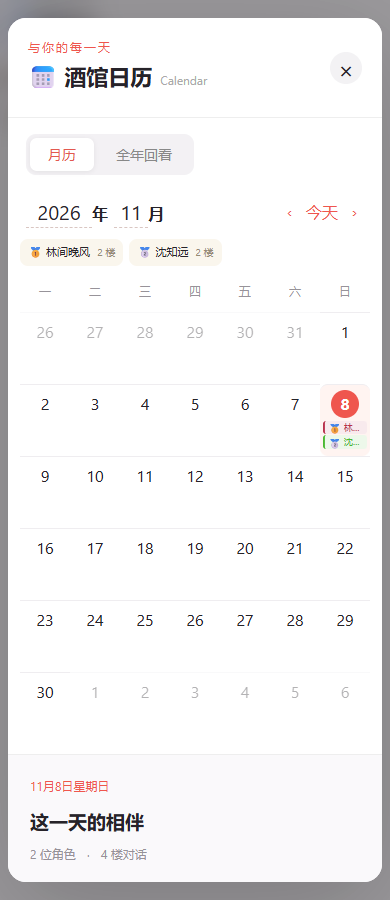
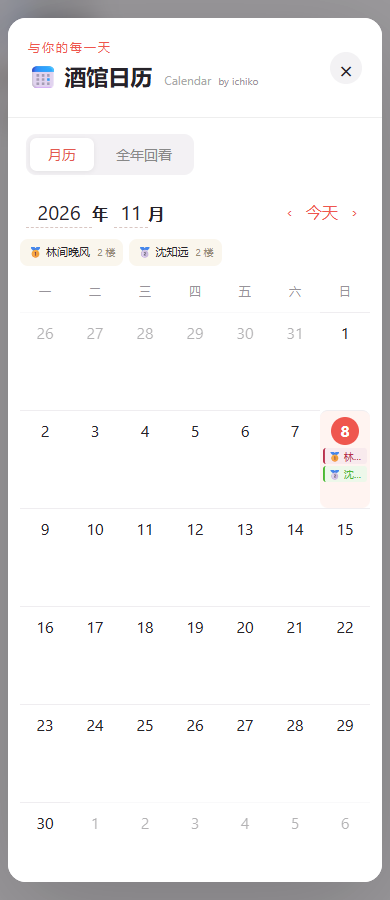
Add ichiko signature and reserve readable calendar overflow rows

diff --git a/index.js b/index.js
@@ -129,7 +129,7 @@
    const rows=Object.values(days[selected]||{}).sort((a,b)=>a.first-b.first), total=rows.reduce((s,r)=>s+r.user+r.char,0);
    const date=new Date(selected+'T12:00:00');
    const time=t=>new Date(t).toLocaleTimeString('zh-CN',{hour:'2-digit',minute:'2-digit'});
-   root.innerHTML=`<section class="tc-shell" role="dialog" aria-modal="true" aria-label="酒馆日历"><header><div><span class="tc-eyebrow">与你的每一天</span><h1>📅 酒馆日历<span>Calendar</span></h1></div><button data-action="close" class="tc-close" aria-label="关闭日历">×</button></header><div class="tc-tabs"><button data-action="month-view" aria-pressed="${view==='month'}">月历</button><button data-action="year-view" aria-pressed="${view==='year'}">全年回看</button></div><div class="tc-body"><main><nav><h2>${title}</h2><div><button data-action="prev" aria-label="${view==='year'?'上一年':'上个月'}">‹</button><button data-action="today">今天</button><button data-action="next" aria-label="${view==='year'?'下一年':'下个月'}">›</button></div></nav><div class="tc-podium" aria-label="本月聊天前三名">${leaders.map((r,i)=>`<span title="同楼数按角色标识排序">${['🥇','🥈','🥉'][i]} ${esc(r.name)} <small>${r.total} 楼</small></span>`).join('')}</div><div class="tc-week">${['一','二','三','四','五','六','日'].map(x=>`<span>${x}</span>`).join('')}</div><div class="tc-grid">${cells}</div></main><aside><div class="tc-date">${date.toLocaleDateString('zh-CN',{month:'long',day:'numeric',weekday:'long'})}</div><h2>这一天的相伴</h2><p class="tc-summary">${rows.length} 位角色 <span>·</span> ${total} 楼对话</p><div class="tc-agenda">${rows.length?rows.map(r=>`<article style="--char-color:${color(r.avatar)}"><div class="tc-time">${time(r.first)}<small>${time(r.last)}</small></div><div class="tc-card"><strong>${esc(r.name)}${badge(r.avatar)}</strong><b>${r.user+r.char}<small> 楼</small></b><p>你 ${r.user} 楼 · 角色 ${r.char} 楼</p><div class="tc-archives">${(r.files||[]).map(file=>`<button data-action="jump" data-avatar="${esc(r.avatar)}" data-file="${esc(file)}" ${jumping?'disabled':''} title="打开此聊天存档">↗ ${esc(file)}</button>`).join('')}</div></div></article>`).join(''):`<div class="tc-empty"><span>☷</span><p>${busy?'正在寻找聊天足迹…':scanned?'这一天，还没有聊天足迹':'把和 TA 的日常，收进日历'}</p><small>每一次对话，都是相伴的印记。</small></div>`}</div></aside></div><footer><span role="status">${esc(status)}</span><button data-action="refresh" ${busy?'disabled':''}>${busy?'整理中…':'↻ 刷新记录'}</button></footer><div class="tc-note">按本机时区统计单人聊天；双方每条消息各计 1 楼，不含系统消息。相同时间、身份与正文的分支副本只计一次。重生成的候选回复不额外计数。</div></section>`;
+   root.innerHTML=`<section class="tc-shell" role="dialog" aria-modal="true" aria-label="酒馆日历"><header><div><span class="tc-eyebrow">与你的每一天</span><h1>📅 酒馆日历<span class="tc-title-meta">Calendar<small class="tc-signature">by ichiko</small></span></h1></div><button data-action="close" class="tc-close" aria-label="关闭日历">×</button></header><div class="tc-tabs"><button data-action="month-view" aria-pressed="${view==='month'}">月历</button><button data-action="year-view" aria-pressed="${view==='year'}">全年回看</button></div><div class="tc-body"><main><nav><h2>${title}</h2><div><button data-action="prev" aria-label="${view==='year'?'上一年':'上个月'}">‹</button><button data-action="today">今天</button><button data-action="next" aria-label="${view==='year'?'下一年':'下个月'}">›</button></div></nav><div class="tc-podium" aria-label="本月聊天前三名">${leaders.map((r,i)=>`<span title="同楼数按角色标识排序">${['🥇','🥈','🥉'][i]} ${esc(r.name)} <small>${r.total} 楼</small></span>`).join('')}</div><div class="tc-week">${['一','二','三','四','五','六','日'].map(x=>`<span>${x}</span>`).join('')}</div><div class="tc-grid">${cells}</div></main><aside><div class="tc-date">${date.toLocaleDateString('zh-CN',{month:'long',day:'numeric',weekday:'long'})}</div><h2>这一天的相伴</h2><p class="tc-summary">${rows.length} 位角色 <span>·</span> ${total} 楼对话</p><div class="tc-agenda">${rows.length?rows.map(r=>`<article style="--char-color:${color(r.avatar)}"><div class="tc-time">${time(r.first)}<small>${time(r.last)}</small></div><div class="tc-card"><strong>${esc(r.name)}${badge(r.avatar)}</strong><b>${r.user+r.char}<small> 楼</small></b><p>你 ${r.user} 楼 · 角色 ${r.char} 楼</p><div class="tc-archives">${(r.files||[]).map(file=>`<button data-action="jump" data-avatar="${esc(r.avatar)}" data-file="${esc(file)}" ${jumping?'disabled':''} title="打开此聊天存档">↗ ${esc(file)}</button>`).join('')}</div></div></article>`).join(''):`<div class="tc-empty"><span>☷</span><p>${busy?'正在寻找聊天足迹…':scanned?'这一天，还没有聊天足迹':'把和 TA 的日常，收进日历'}</p><small>每一次对话，都是相伴的印记。</small></div>`}</div></aside></div><footer><span role="status">${esc(status)}</span><button data-action="refresh" ${busy?'disabled':''}>${busy?'整理中…':'↻ 刷新记录'}</button></footer><div class="tc-note">按本机时区统计单人聊天；双方每条消息各计 1 楼，不含系统消息。相同时间、身份与正文的分支副本只计一次。重生成的候选回复不额外计数。</div></section>`;
    if(view==='year'){
      const body=root.querySelector('.tc-body');body.classList.add('tc-year-body');
      const main=body.querySelector('main'),nav=main.querySelector('nav');main.replaceChildren(nav);

diff --git a/style.css b/style.css
@@ -9,6 +9,11 @@
 #tcal .tc-archives button{color:#ce6258;background:#fff;border:1px solid #eee3e0;border-radius:6px;text-align:left;font-size:11px;padding:6px 8px;overflow-wrap:anywhere;white-space:normal;min-width:0}
 #tcal .tc-archives button:hover{background:#fff1ed}
 #tcal .tc-archives button:disabled{opacity:.5;cursor:wait}
+#tcal header>div{min-width:0}
+#tcal .tc-close{flex-shrink:0;margin-left:10px}
+#tcal h1{display:flex;align-items:baseline;flex-wrap:wrap;column-gap:12px;row-gap:2px}
+#tcal h1 .tc-title-meta{display:inline-flex;align-items:baseline;gap:7px;margin-left:0;white-space:nowrap}
+#tcal h1 .tc-signature{font-size:10px;font-weight:400;color:#9b929b;letter-spacing:.1px}
 #tcal .tc-tabs{display:flex;gap:4px;margin:16px 28px 0;background:#f3f1f4;border-radius:10px;padding:4px;width:max-content}
 #tcal .tc-tabs button{padding:6px 18px;border-radius:7px;color:#888}
 #tcal .tc-tabs button[aria-pressed=true]{background:#fff;color:#e35950;box-shadow:0 1px 5px #0001}
@@ -39,3 +44,10 @@
 #tcal .tc-loading strong{font-size:22px;color:#e2675b;display:block}
 #tcal .tc-loading small{display:block;color:#aaa;font-size:11px;margin-top:18px}
 @media(max-width:700px){#tcal h1{font-size:22px}#tcal h1 span{font-size:12px;margin-left:8px}#tcal nav{gap:4px}#tcal nav button{padding:5px 7px}#tcal .tc-tabs{margin-left:18px}#tcal .tc-year-summary{padding:14px;align-items:flex-start;flex-direction:column;gap:4px}#tcal .tc-year-row{grid-template-columns:30px minmax(0,1fr) 66px 20px;gap:6px}#tcal .tc-year-row strong{font-size:12px}#tcal .tc-loading{padding:55px 24px}}
+/* Reserve a separate row for overflow counts, including on narrow screens. */
+#tcal .tc-day{height:98px;min-height:98px;padding:6px 3px 8px;display:grid;grid-template-rows:28px 51px;gap:3px;align-content:start;overflow:hidden}
+#tcal .tc-number{justify-self:center;align-self:start;flex-shrink:0;line-height:28px}
+#tcal .tc-events{display:grid;grid-template-rows:16px 16px 15px;gap:2px;min-width:0;align-content:start}
+#tcal .tc-chip{height:16px;line-height:16px;margin:0;min-width:0;font-size:10px}
+#tcal .tc-more{display:block;grid-row:3;height:15px;line-height:15px;padding-left:3px;font-size:10px;color:#77717b;white-space:nowrap;overflow:hidden;text-overflow:ellipsis}
+#tcal .tc-chip .tc-medal{line-height:1;vertical-align:baseline}
